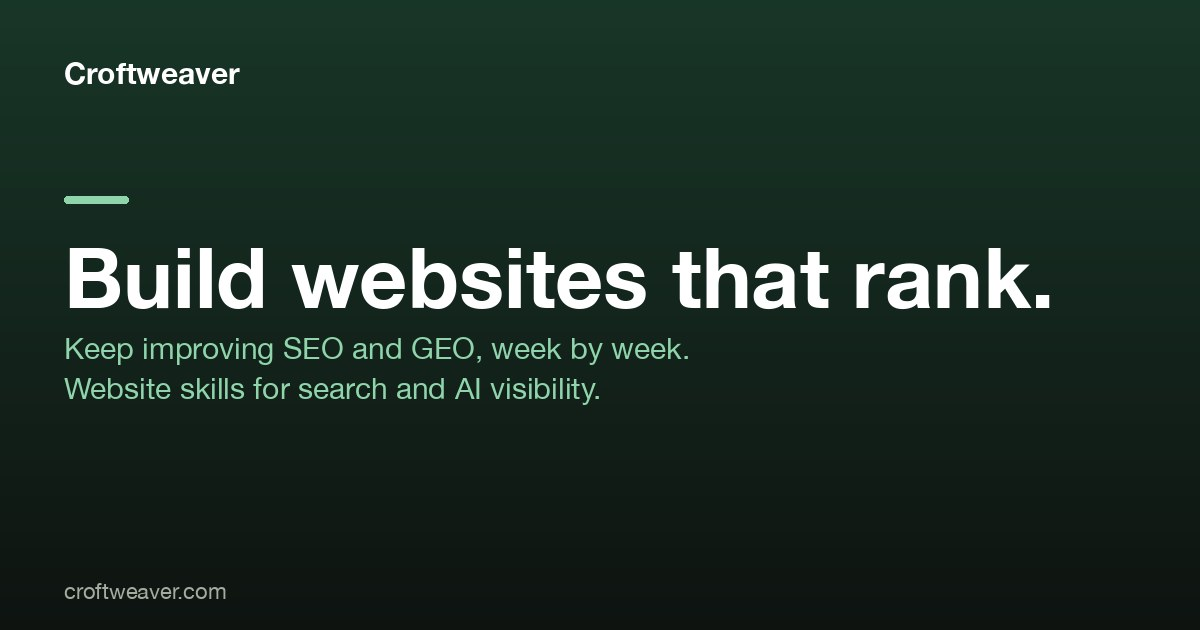
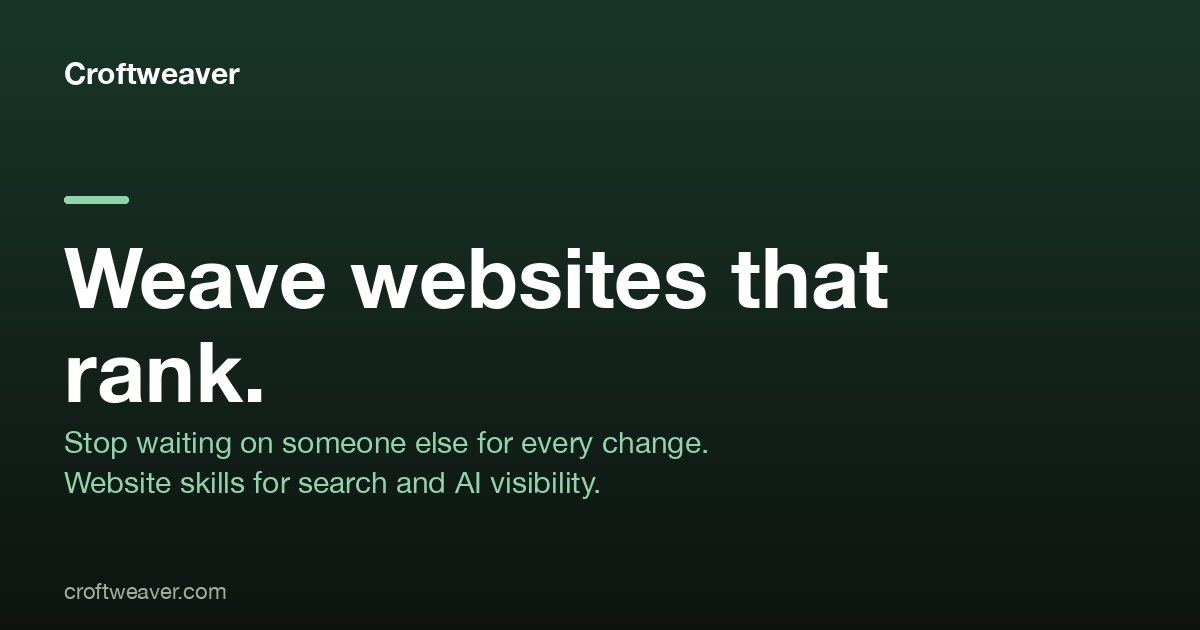
home: the page told as the visitor's story (STORY.md), hero "Weave websites that rank."
The home page now follows the seven sections of STORY.md: the hero with the approved
one-liner and three short outcomes (the proof strip stays directly under it), the
stakes (every change waits on someone else), a three-step plan, what changes for you,
a guide with three honest answers, the existing detail sections, a short learning
section in the maintainer's voice, and the sign-off. The subline "Keep improving SEO
and GEO, week by week." is retired. The default share card, the home meta description,
llms.txt, BRAND.md, the README and POSITIONING.md follow. /positioning and the content
guide no longer say the site does not use the story layer. README rows 3 and 4a updated.

Changed region(s): [[0.0308, 0.3921, 0.8942, 0.6635], [0.0617, 0.6937, 0.5858, 0.7238], [0.0308, 0.754, 0.4933, 0.7841]]

diff --git a/src/config.ts b/src/config.ts
@@ -14,7 +14,7 @@ export const SITE = {
   // 120–160 chars: default meta description + Organization/WebPage schema text.
   description:
     'Croftweaver is a suite of open-source website skills for AI coding assistants. ' +
-    'Build websites that rank, then keep improving SEO and GEO, week by week.',
+    'Weave websites that rank, then keep improving them week by week.',
   repo: 'https://github.com/karero/croftweaver',   // the toolkit; goes live with the repo rename
 } as const;
 

diff --git a/scripts/generate_og_cards.py b/scripts/generate_og_cards.py
@@ -57,8 +57,8 @@ ACCENT = (143, 212, 171)           # accent bar      (--accent)
 FOOTER_COL = (162, 172, 159)       # footer url (--muted dark, #a2ac9f)
 
 # Home + fallback card (this is Base.astro's default `image`). Edit for your site.
-DEFAULT_TITLE = "Build websites that rank."
-DEFAULT_SUBTITLES = ["Keep improving SEO and GEO, week by week.", "Website skills for search and AI visibility."]
+DEFAULT_TITLE = "Weave websites that rank."
+DEFAULT_SUBTITLES = ["Stop waiting on someone else for every change.", "Website skills for search and AI visibility."]
 
 # ── PAGES ─────────────────────────────────────────────────────────────────────
 # One entry per page that should have its OWN card. The slug is the output filename

diff --git a/STORY.md b/STORY.md
@@ -1,0 +1,136 @@
+<!--
+  STORY.md — the home page told as the visitor's story. Optional layer, adopted for the
+  home page on 2026-10-08 (owner decision). Derived from POSITIONING.md, which is the
+  source of truth for WHAT is claimed (target customer, competitive alternatives,
+  unique attributes and proof, value, market category). This file decides only HOW the
+  home page narrates it. On any conflict POSITIONING.md wins and this file is corrected.
+  Do not restate the positioning here; cite it.
+  Owned by the website-story skill. Inspired by Donald Miller's StoryBrand framework,
+  in this suite's own words. Croftweaver is not affiliated with Donald Miller, and he
+  does not endorse it. StoryBrand is a trademark of its owner.
+-->
+# Croftweaver — story layer
+
+## Source map (every line below cites POSITIONING.md)
+
+| Story element | From POSITIONING.md |
+|---|---|
+| Character + want | §4 Target customer and "why they care most" |
+| Problem and villain | §1 the status quo; §4 "why they care most"; "Routes not chosen" (agencies are not the villain) |
+| Guide: empathy and authority | §4 (the situation); §2 and §3 (proof) |
+| Plan | §2 how the attributes are delivered |
+| Calls to action | owner decision: "Get Croftweaver on GitHub" |
+| Stakes | §1 the status quo; §4 |
+| Success | §3 value rows |
+| Market category | §5, unchanged |
+| One-liner and controlling idea | the positioning statement and the core term "website skills"; the reference line "Stop waiting on someone else for every change." |
+
+## 1. Character (the hero is the visitor)
+
+- **Who:** founders, community organizers, experts and small teams who need their website
+  to be found, and the people who build sites for them (§4).
+- **What they want (one thing):** a site that people find on Google and in AI answers,
+  and that they can change without waiting on anyone (§4, §2).
+
+## 2. Problem
+
+- **Villain:** the situation, never a named agency: an old site, or none, and someone
+  else to ask for every update, with a brief, a wait and often a bill each time (§1, §4).
+  Agencies are also customers, and the home page lists small studio and agency sites as a
+  good fit.
+- **External:** the site is old or missing, every update waits on someone else, and the
+  search and AI basics are skipped when a site goes live fast or slip after an edit (§1,
+  §4).
+- **Internal:** you cannot tell what has slipped, and changes pile up.
+- **Philosophical:** it is your site; changing a sentence should not need a brief and a
+  wait.
+
+## 3. Guide (the brand)
+
+- **Empathy:** the search and AI work is the part that gets skipped when a site has to
+  go live fast (§4, restated).
+- **Authority (proof from §3 only):** three sites built with Croftweaver score 99 to 100
+  in Google's PageSpeed Insights (measured 4 October 2026); genai-wednesday.de, relaunched
+  on 27 March 2026, went from 3 clicks from Google per 28 days to a best 99. Both are on
+  the home page's proof strip and on `/proof`, with their limits.
+
+## 4. Plan
+
+**Title:** Three steps to a site people can find
+
+1. **Describe** → your assistant works out what the site says before it writes a word
+   (§2: the pipeline starts with positioning; `/start`: six questions).
+2. **Build and check** → pages with the search and AI work done by default, and the test
+   suites check every change by default (§2, §3).
+3. **Publish and keep improving** → free hosting you control, and once Search Console is
+   connected your own data points to the next edit, week by week (§2).
+
+- **Promise:** none. The wording rule forbids a ranking guarantee (POSITIONING.md,
+  wording rule 1); the proof strip carries the evidence.
+- **Rebuilding an old site:** the old pages are the brief. There is no automatic import
+  yet (`/roadmap`).
+
+## 5. Calls to action
+
+- **Direct CTA (one label, verbatim everywhere):** `Get Croftweaver on GitHub` →
+  `SITE.repo`. Used in the header, after the plan and in the sign-off, as on the other pages.
+- **Transitional CTA (lead generator):** none. The site has no email-gated guide, and
+  none is invented.
+
+## 6. Stakes (what stays wrong if nothing changes)
+
+- Every update waits on someone else, so changes pile up and the site falls behind (§1).
+- Without a check after each edit, a site slips: a description goes missing, a link
+  breaks, and nothing tells you (§1).
+
+## 7. Success (life after)
+
+- **You make the changes yourself.** Everyday updates are a conversation with your
+  assistant (§3, independence row).
+- **Search and AI can read it from the first build** (§3 rows 1 and 2).
+- **Nothing slips unnoticed.** The test suites check every change by default, and your
+  own search data points to the next edit (§3 rows 3 and 4).
+
+## One-liner (30 words)
+
+> Stop waiting on someone else for every change. Build or rebuild your site with your AI
+> assistant and Croftweaver, so people can find it on Google and in AI answers.
+
+Owner-approved 2026-10-08. Opens on the visitor's moment, second person, present tense,
+active voice. "Build or rebuild" covers a new site and an old one.
+
+## Controlling idea
+
+> Website skills that help search and AI find your site.
+
+Owner-approved 2026-10-08. It pairs the two channels (search and AI), not a person and a
+machine, and narrows the core term "website skills".
+
+## Home page map (seven sections → src/pages/index.astro)
+
+POSITIONING.md's wording rule 2 keeps the proof strip directly under the hero, so it sits
+at the end of section 1.
+
+| # | Section | Carries | Direct CTA |
+|---|---|---|---|
+| 1 | Header | the kicker (positioning term and market category, the first `<p>`), the `<h1>` "Weave websites that rank.", the one-liner, three short outcomes (one per §7 line), then the proof strip. No customer image: the site has none, and none is invented | yes |
+| 2 | Stakes | §6, then a one-line pivot to the guide | no |
+| 3 | Plan | §4 as an ordered list, and the note on rebuilding | yes |
+| 4 | Value stack | the three §7 lines, each a headline and a sentence, each linking to its detail | no |
+| 5 | Explanatory paragraph | what Croftweaver is, the guide's empathy, three objections answered from POSITIONING.md only (coding, ranking, cost), a link to `/why` | no |
+| 6 | Lead generator | omitted (§5 is blank) | no |
+| 7 | Junk drawer | the detail sections (built in, the test suites, the weekly loop, "The site is yours", fit, quickstart), the learning section below, then the sign-off | yes |
+
+## Beyond the seven sections: the learning section
+
+A short section after "The site is yours". It carries a secondary benefit (POSITIONING.md
+§3 and §4: a rebuild as a project to learn with), based on the owner's experience with one
+team, and stays low on the page and out of the headline, the one-liner and the share card.
+The owner approved the passage on 2026-10-08, in the first person, with a byline.
+
+## Not adopted: tests/story.spec.ts
+
+`src/data/suites.ts` counts every file in `tests/` as one of the suites that every
+Croftweaver site ships with, and the home page renders that count. The story test is
+opt-in, so adding it would make the page claim 13 suites while POSITIONING.md §2 says 12.
+The direct CTA, the one-liner and the plan are guarded by review instead.

diff --git a/CONTENT_GUIDE.md b/CONTENT_GUIDE.md
@@ -84,7 +84,7 @@ uses `SITE.titleHome` as the whole title, so that one may be up to 60 characters
 
 | Page | URL | Purpose | Primary keyword | Target `<title>` (≤60 rendered) | Status |
 |---|---|---|---|---|---|
-| Home | `/` | the promise, the proof, the gate, the loop | website skills for search and AI visibility | Croftweaver: website skills for search and AI visibility | [x] |
+| Home | `/` | the promise and the villain, the proof, the plan, the gate, the loop, a short learning project | website skills for search and AI visibility | Croftweaver: website skills for search and AI visibility | [x] |
 | Checks | `/checks` | the test gate in detail, suite by suite | website test gate | The test gate in every Croftweaver site | [x] |
 | Skills | `/skills` | catalogue by lifecycle: Build, Verify, Launch, Grow | website skills | Website skills catalogue | [x] |
 | Start | `/start` | zero to a first site | quickstart | Quickstart: your first site | [x] |
@@ -132,7 +132,7 @@ starts with questions and not with a design.
 | 5 | How the test keeps it true | what the positioning suite checks (term in the title, the description, and the H1 or the first paragraph; on the home page also the category in the body), one failure message, when it runs | `tests/positioning.spec.ts`, `/checks` |
 | 6 | Limits | the test proves the term is present and consistent, not that the positioning is good; it is no keyword-density check; the judgment stays with the owner; the optional skill `website-positioning-check` gives a look from outside | honesty rules above |
 | 7 | Then make it believable: trust signals (EEAT) | what EEAT stands for, said once; that it is the framework Google's quality raters use, not a score and not a ranking factor by itself; the signals the skills build in (structured data for the organisation with profiles that resolve, a named author with a bio where there is one, sources cited, imprint, contact and privacy pages, links that resolve); which of these a test checks (structured data is present and parses; links inside the site resolve when they are written from the site root or with the full address; a link written relative to a page is checked only where it points to a section, by the anchors suite) and which a test does not check: other links written relative to a page, and whether a profile or another outside link still works. An outside link that appears as a link on a page is looked at by the link audit; a profile that appears only in the structured data is checked by hand. The facts themselves come from the owner. Short: the content guide owns this layer, not positioning | toolkit skill `website-content-guide`; "EEAT signals" above; Google Search Central, "Creating helpful, reliable, people-first content" (read 2026-10-04) |
-| 8 | The story layer (optional) | `website-story`: the home page told as the visitor's story, in seven sections; optional, offered once after positioning; this site does not use it. "Inspired by Donald Miller's StoryBrand framework, in Croftweaver's own words." | toolkit skill `website-story` |
+| 8 | The story layer (optional) | `website-story`: the home page told as the visitor's story, in seven sections; optional, offered once after positioning; this site uses it for its home page (`STORY.md`). "Inspired by Donald Miller's StoryBrand framework, in Croftweaver's own words." | toolkit skill `website-story` |
 | 9 | Sources | the books, with links (below), and the no-endorsement sentence | owner, 2026-10-04 |
 | 10 | Next step | quickstart, GitHub | page template |
 

diff --git a/README.md b/README.md
@@ -20,8 +20,9 @@ coding assistants (https://github.com/karero/croftweaver). Built with Croftweave
 
 - **Positioning:** lead with being found by search engines and AI assistants; the test
   gate is the proof; ownership is the brand voice. Hero: "Weave websites that rank."
-  (from 2026-10-08; before: "Build websites that rank."). Subline: "Keep improving SEO and GEO, week by week." Details, the wording rule and
-  the routes not chosen: `POSITIONING.md`.
+  (from 2026-10-08; before: "Build websites that rank."). The subline "Keep improving
+  SEO and GEO, week by week." is retired; the one-liner replaces it. Details, the wording
+  rule and the routes not chosen: `POSITIONING.md`; the home page story: `STORY.md`.
 - **Name in text:** "Croftweaver". Lower case only in code contexts (domain, repo).
 - **GitHub:** rename `karero/website-builder` to `karero/croftweaver` in place. The old
   name is never created again, or its redirect stops working.
@@ -75,9 +76,9 @@ requests.
 | 1 | Requirements: `POSITIONING.md`, `CONTENT_GUIDE.md`, this table | PR | done | karero/croftweaver-site#3, merged 2026-10-04 (`f304bef`) |
 | 2 | Brand: palette tokens, share-card colours, 404 page, `_headers` placeholder, `llms.txt` licence wording | PR | done | karero/croftweaver-site#4, merged 2026-10-04 (`0d38a11`) |
 | 2a | Legal address into `imprint.astro` and `privacy.astro` | owner fact + PR | open, needs the address | — |
-| 3 | Logo, favicon and app icons, schema logo | owner + PR | logo delivered by the owner 2026-10-08; built in, in review | karero/croftweaver-site#18 (open) |
+| 3 | Logo, favicon and app icons, schema logo | owner + PR | done | karero/croftweaver-site#18, merged 2026-10-08 (`48b1738`) |
 | 4 | Header and navigation; home page rewrite | PR | done | karero/croftweaver-site#5, merged 2026-10-04 (`f7e7eb1`) |
-| 4a | Home page as the visitor's story: hero "Weave websites that rank.", the villain, the one-liner, the plan, a short learning section (`STORY.md`) | PRs | positioning updated (this step); `STORY.md` and the page rewrite open, they follow the merge of karero/croftweaver-site#17 and #18 | — |
+| 4a | Home page as the visitor's story: hero "Weave websites that rank.", the villain, the one-liner, the plan, a short learning section (`STORY.md`) | PRs | positioning done; `STORY.md` and the page rewrite in review | karero/croftweaver-site#19, merged 2026-10-08 (`d98ff84`); the page: this pull request |
 | 5 | Pages `/proof` + `/checks`, then `/skills` + `/start` | PRs | done | karero/croftweaver-site#6 (`40c6031`), karero/croftweaver-site#7 (`646bcd1`), karero/croftweaver-site#8 (`2ea1bd2`), all merged 2026-10-04 |
 | 5a | Deck refresh and PDF export | owner + assistant | open | — |
 | 5b | Page `/why` with the PDF | PR | page done; the PDF waits for the deck refresh (5a) | karero/croftweaver-site#10, merged 2026-10-04 (`bea52e7`), page only |

diff --git a/POSITIONING.md b/POSITIONING.md
@@ -115,7 +115,7 @@ genai-wednesday.de. This replaces the earlier launch requirement of three sites.
 - **Kicker (above the H1):** Website skills for search and AI visibility
 - **Hero (H1):** Weave websites that rank. (Until 2026-10-08: "Build websites that
   rank.", the plain fallback if "weave" tests badly with strangers.)
-- **Subline:** Keep improving SEO and GEO, week by week.
+- **Subline:** retired from the home page on 2026-10-08. The one-liner and three short outcomes replace it, since it said SEO and GEO, which strangers do not know. Its words were "Keep improving SEO and GEO, week by week."
 - **Brand line, used as sign-off (≤ 12 words):** Your own plot of the web.
 - **~50-word boilerplate:** Croftweaver is a suite of open-source website skills for AI coding assistants. It turns an assistant such as Claude Code into a careful website builder: fast, accessible Astro sites built to rank on Google and show up in AI answers, tested on every change, in a repo you fully own.
 
@@ -215,3 +215,5 @@ is built.
 - **Keyword / SERP research:** `seo-audit` — positioning leads, keywords follow.
 - **AI / answer-engine phrasing (GEO):** `ai-seo`.
 - **Schema description + head metadata:** `website-seo-geo` (50-word boilerplate verbatim).
+- **The home page as the visitor's story:** `STORY.md`, derived from this file. This file
+  wins on any conflict.

diff --git a/BRAND.md b/BRAND.md
@@ -116,8 +116,8 @@ from the tokens below so `public/images/og/default.jpg` + the per-page cards sta
 1. Canvas 1200×630, deep-green to near-black gradient (24,54,40 → 14,19,16).
 2. No logo emblem yet (LOGO = None).
 3. Wordmark "Croftweaver", top-left, white.
-4. Headline per page; default card: "Build websites that rank.", with the subline and
-   the category line beneath.
+4. Headline per page; default card: "Weave websites that rank.", with the villain line
+   ("Stop waiting on someone else for every change.") and the category line beneath.
 5. Footer URL "croftweaver.com", muted.
 
 Per-page variants: change only the headline; keep everything else identical.
